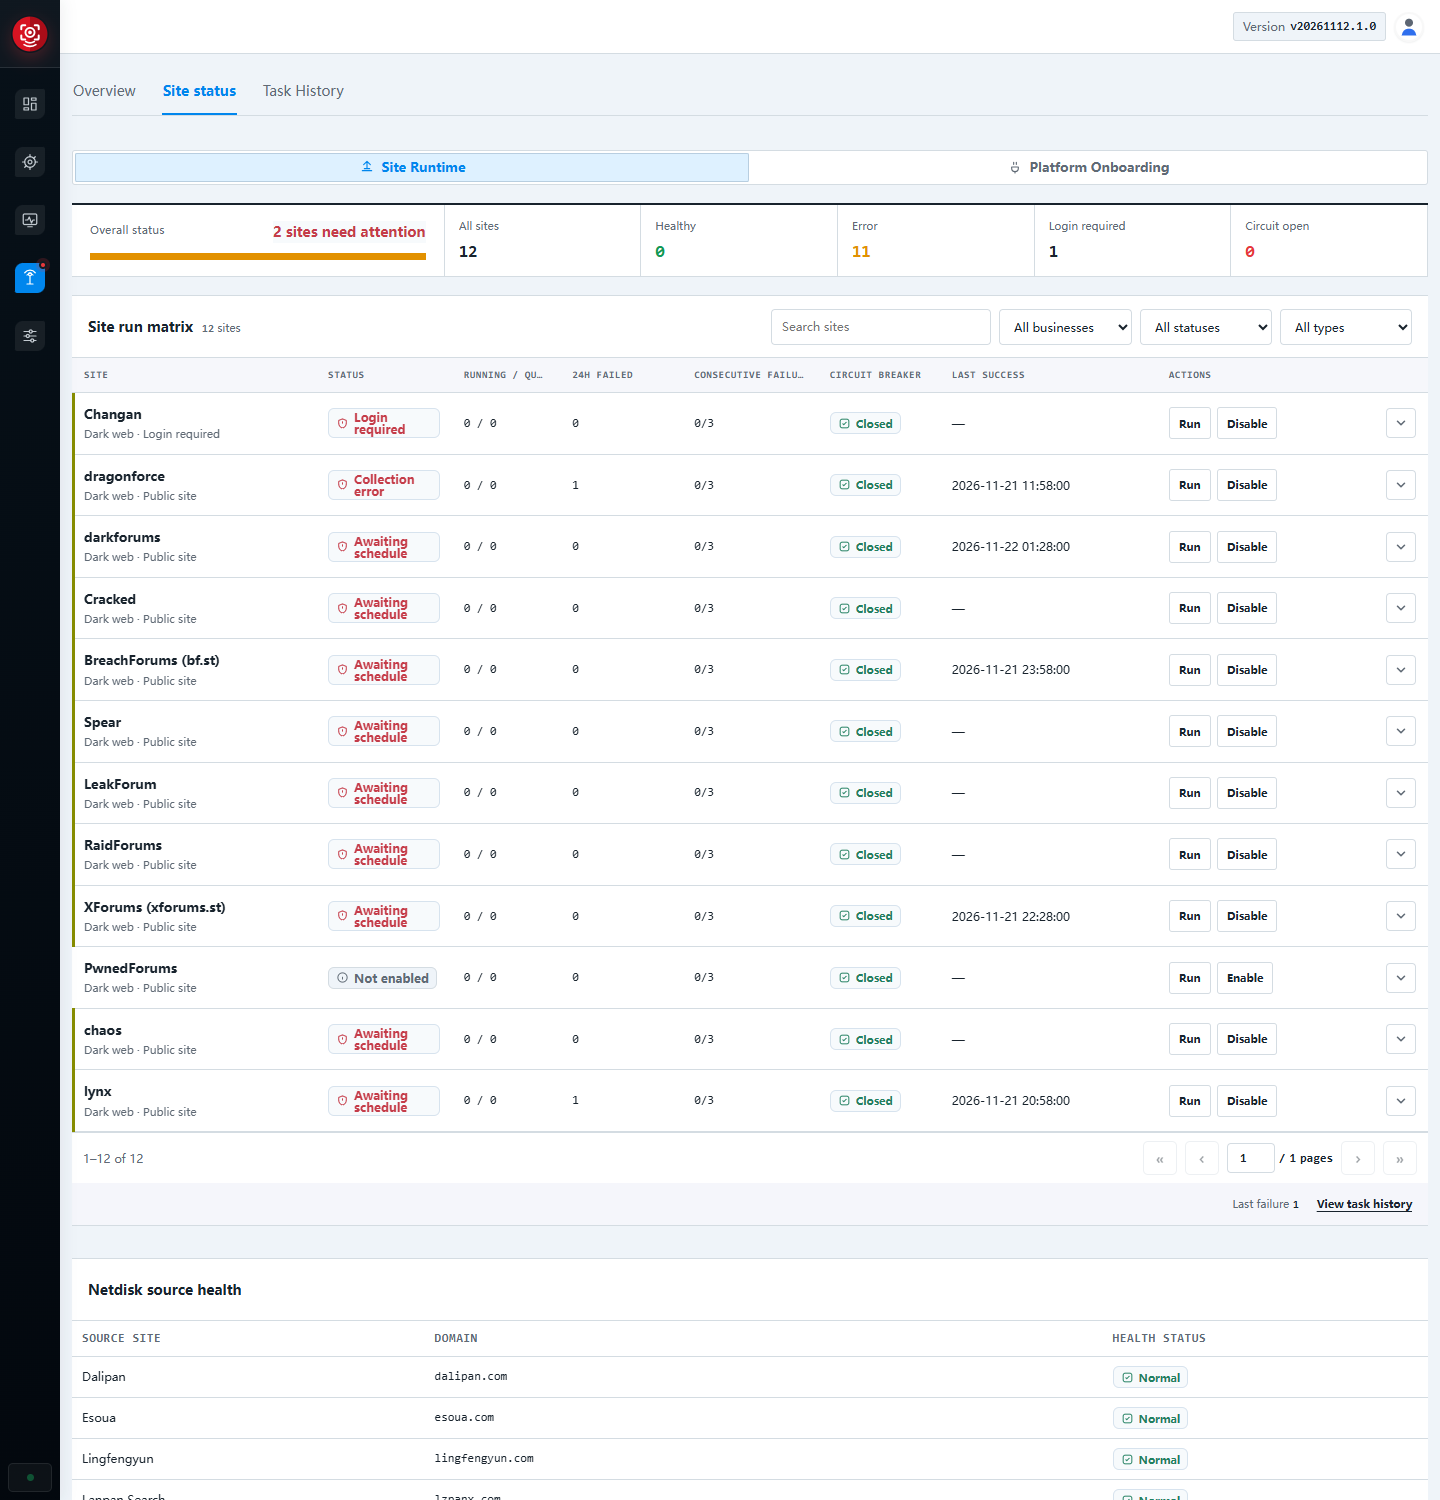
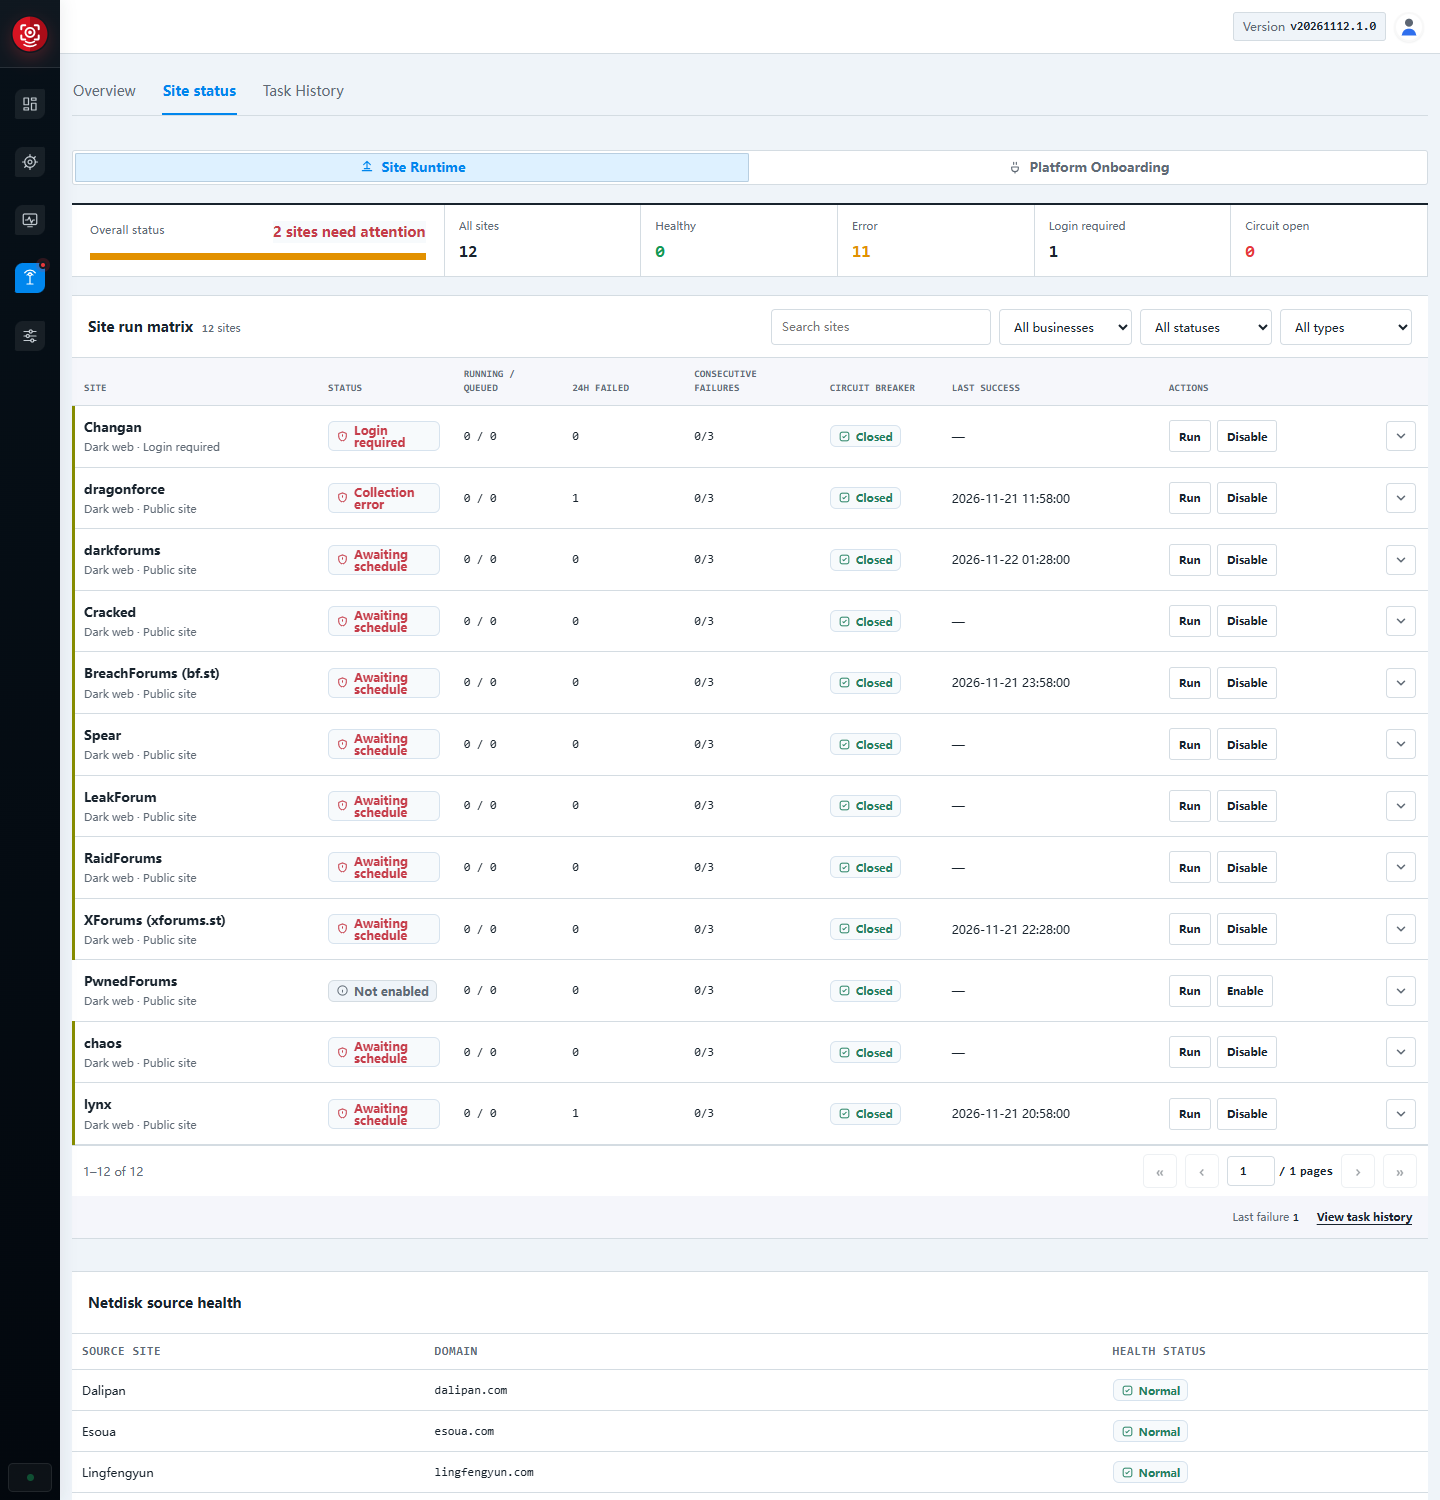
Fix truncated English table headers on site and library pages
- Let site table headers wrap (Running / Queued, Consecutive failures)
  by overriding the page-specific single-line ellipsis rule
- Shorten the library column header to Uploader
- Refresh the two affected documentation screenshots

diff --git a/threat-intelligence-dashboard/src/prototype/screens/monitoring.html b/threat-intelligence-dashboard/src/prototype/screens/monitoring.html
@@ -113,7 +113,7 @@
           <article class="card monitor-table-card library-table-card dense-panel" data-od-id="library-results">
             <div class="panel-header"><h2>Document monitoring results <span class="heading-count" data-table-count="library-table">6</span></h2><button class="btn btn-secondary" data-toast="Review queue updated">Batch review</button></div>
             <div class="toolbar"><select class="select" data-filter-target="library-table" data-filter-key="source" data-document-hit-filter="platform"><option value="">All sources</option><option value="baidu">Baidu Wenku</option><option value="doc88">Doc88</option><option value="docin">Docin</option><option value="csdn">CSDN Document Library</option></select><select class="select" data-filter-target="library-table" data-filter-key="severity" data-document-hit-filter="severity"><option value="">All risks</option><option value="critical">Critical</option><option value="high">High</option><option value="medium">Medium</option><option value="low">Low</option></select><select class="select" data-date-filter-target="library-table" data-document-hit-filter="recent_days" aria-label="Discovered at"><option value="">All discovery times</option><option value="1">24  hours</option><option value="7">Last 7 days</option><option value="30">Last 30 days</option></select><div class="search-field"><input class="input" data-table-search="library-table" data-document-hit-filter="query" placeholder="Search document titles, authors or matched keywords"></div><a class="btn btn-secondary" href="/document-exposure/scans" data-od-id="library-scan-task-link">Scan Tasks</a><a class="btn btn-ghost monitor-config-link" href="settings.html?tab=objects&amp;module=library" data-od-id="library-config-link">Configure monitoring</a></div>
-            <div class="table-wrap"><table class="ds-table monitoring-data-table library-data-table" id="library-table" data-table data-server-pagination="true"><thead><tr><th>Document title</th><th>Source site</th><th>Document type</th><th>Pages</th><th>Matched keywords</th><th>Author/uploader</th><th>Risk</th><th>Discovered at</th><th>Status</th><th>Actions</th></tr></thead><tbody>
+            <div class="table-wrap"><table class="ds-table monitoring-data-table library-data-table" id="library-table" data-table data-server-pagination="true"><thead><tr><th>Document title</th><th>Source site</th><th>Document type</th><th>Pages</th><th>Matched keywords</th><th>Uploader</th><th>Risk</th><th>Discovered at</th><th>Status</th><th>Actions</th></tr></thead><tbody>
               <tr data-source="baidu" data-severity="critical" data-discovered-at="2026-07-14T10:24:00" data-od-id="library-row-project"><td class="table-title"><span class="inline-doc pdf">PDF</span>XX Smart hardware project feasibility analysis and implementation plan</td><td><span class="source-site"><span class="source-logo logo-baidu-doc"><svg><use href="#mark-baidu-doc"/></svg></span><span>Baidu Wenku</span></span></td><td>Project proposal</td><td class="num">36</td><td>Product roadmap, profit forecast</td><td> pages**</td><td><span class="badge badge-critical">High</span></td><td class="num">07-14 10:24</td><td><span class="result-status pending">Unprocessed</span></td><td><a class="btn btn-ghost" href="library-detail.html?id=DOC-2026-0714-0112">Details</a></td></tr>
               <tr data-source="doc88" data-severity="critical" data-discovered-at="2026-07-14T10:18:00" data-od-id="library-row-design"><td class="table-title"><span class="inline-doc doc">DOC</span>Company internal product design specification V3.2</td><td><span class="source-site"><span class="source-logo logo-doc88"><svg><use href="#mark-doc88"/></svg></span><span>Doc88</span></span></td><td>Product documentation</td><td class="num">68</td><td>Design specification, dimensional tolerances</td><td>Cailiaotong**</td><td><span class="badge badge-critical">High</span></td><td class="num">07-14 10:18</td><td><span class="result-status pending">Unprocessed</span></td><td><a class="btn btn-ghost" href="library-detail.html?id=DOC-2026-0714-0109">Details</a></td></tr>
               <tr data-source="docin" data-severity="medium" data-discovered-at="2026-07-13T09:58:00" data-od-id="library-row-sop"><td class="table-title"><span class="inline-doc xls">XLS</span>Headquarters office system operation manual (internal SOP)</td><td><span class="source-site"><span class="source-logo logo-docin"><svg><use href="#mark-docin"/></svg></span><span>Docin</span></span></td><td>SOP/Manual</td><td class="num">72</td><td>System accounts, approval workflow</td><td>IT Operations dept.</td><td><span class="badge">Medium</span></td><td class="num">07-13 09:58</td><td><span class="result-status processing">Processing</span></td><td><a class="btn btn-ghost" href="library-detail.html?id=DOC-2026-0714-0104">Details</a></td></tr>

diff --git a/threat-intelligence-dashboard/src/prototype/styles.css b/threat-intelligence-dashboard/src/prototype/styles.css
@@ -5151,3 +5151,4 @@ body {
 .library-data-table th:nth-child(10) { width: 7%; }
 .collector-health-table th { white-space: normal; letter-spacing: .02em; line-height: 1.35; vertical-align: bottom; }
 .collector-health-table .status-dot { white-space: normal; }
+.collector-table-surface .collector-health-table th, .page-collector-sites .site-workbench .collector-health-table th { overflow: visible; text-overflow: clip; white-space: normal; letter-spacing: .02em; line-height: 1.35; vertical-align: bottom; }
